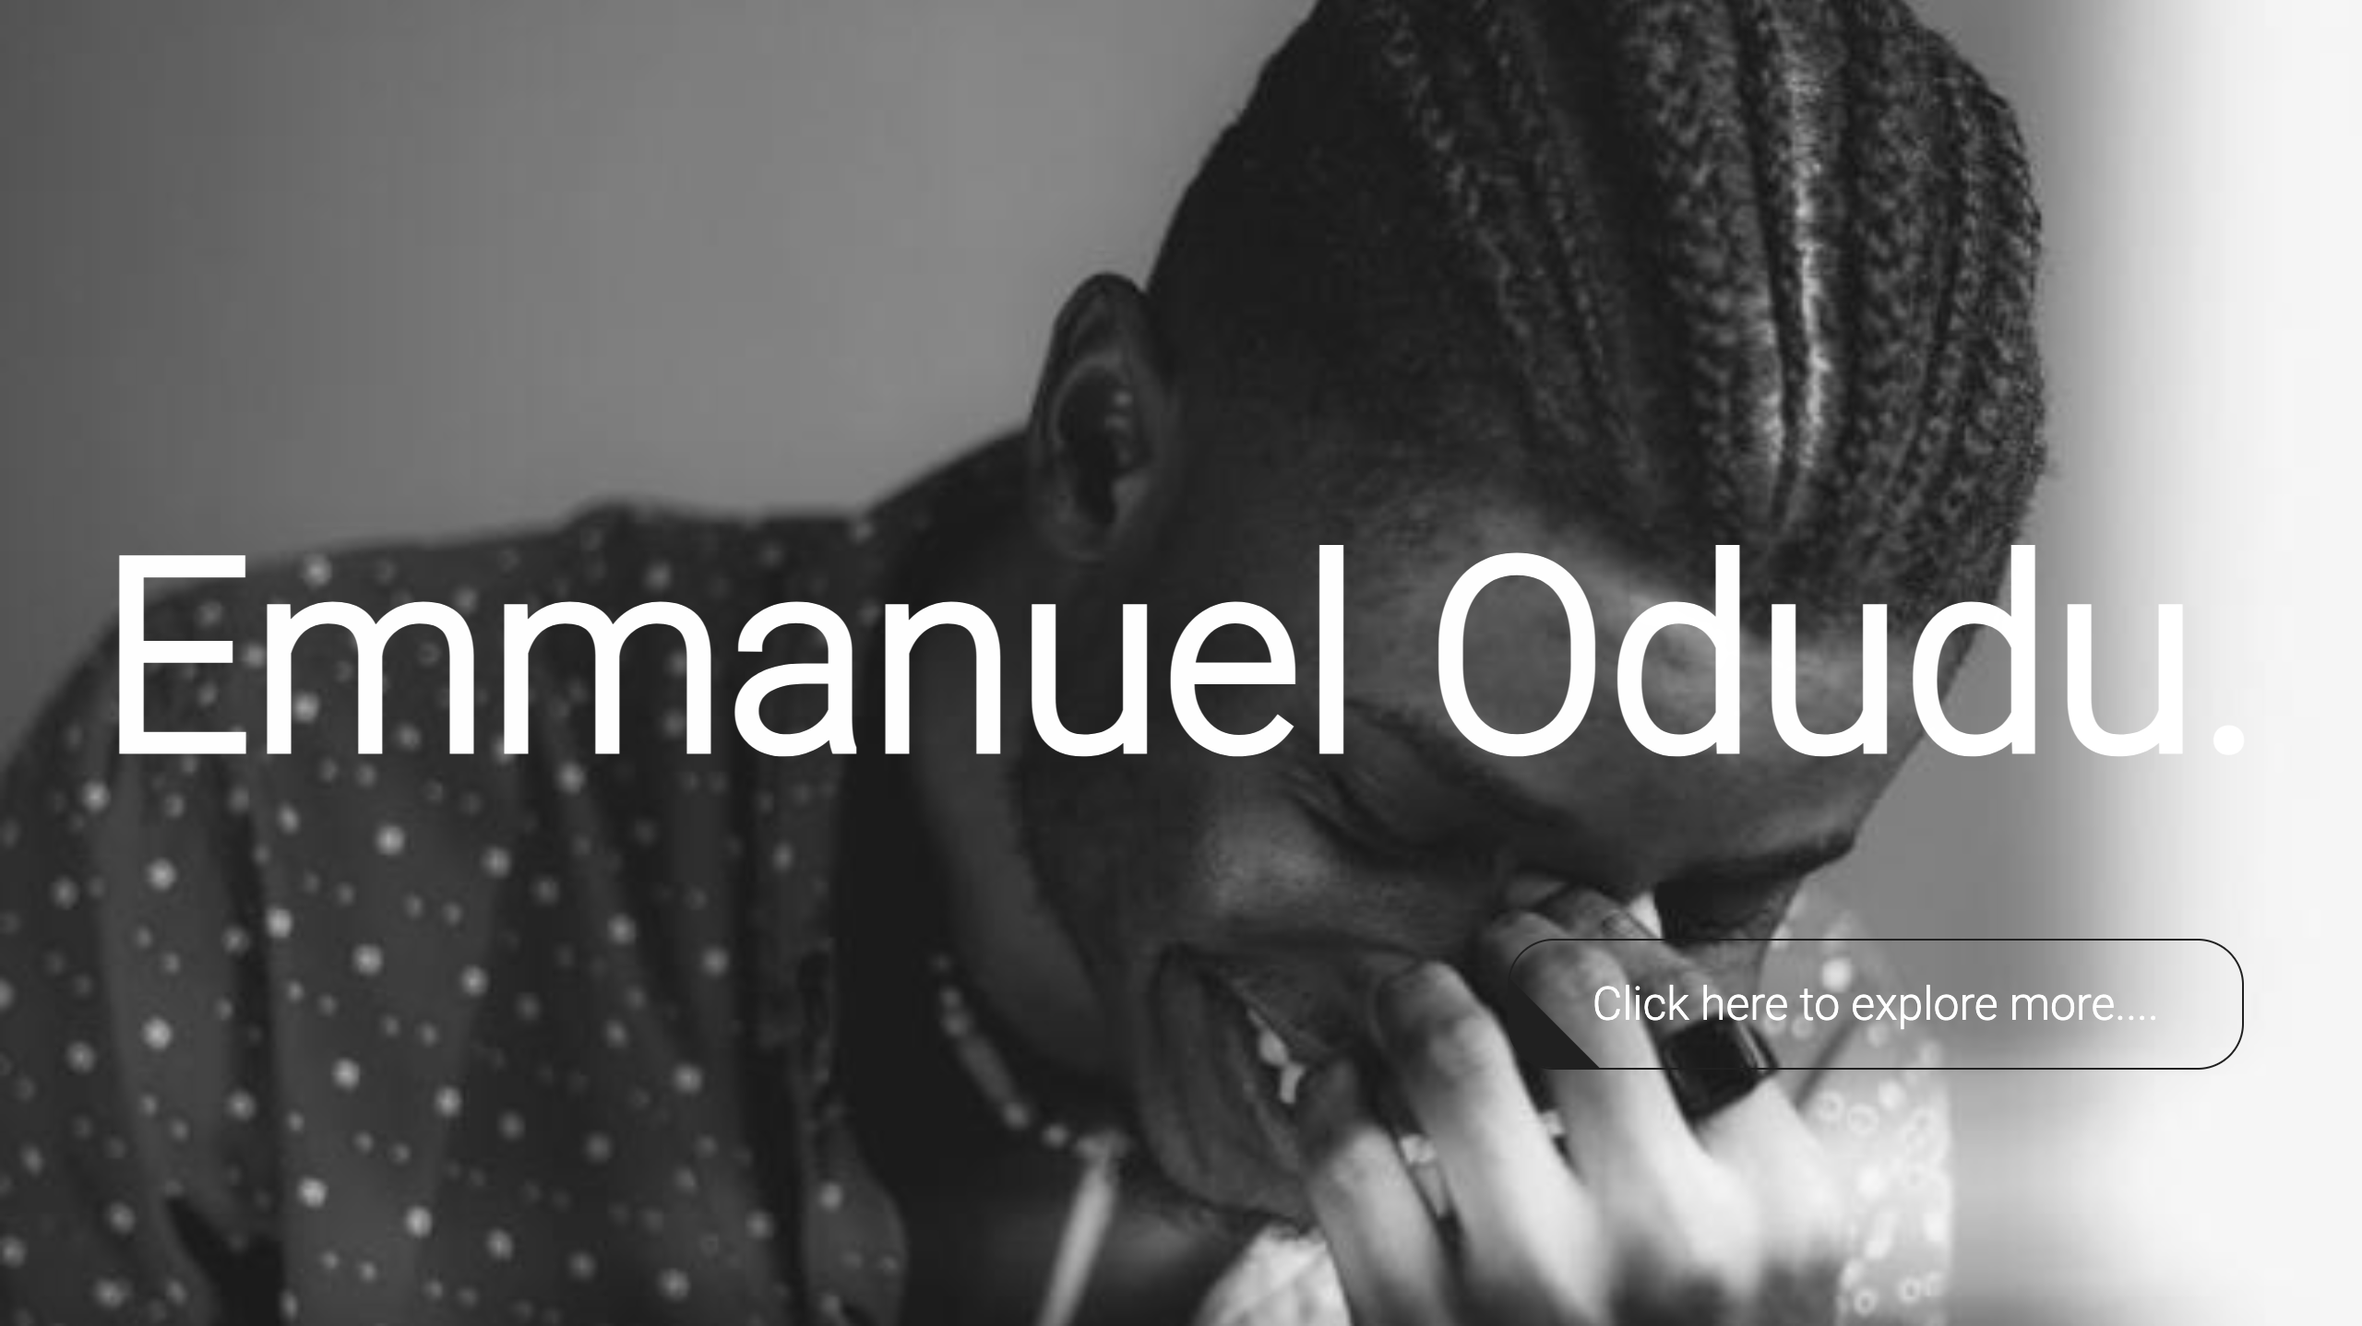
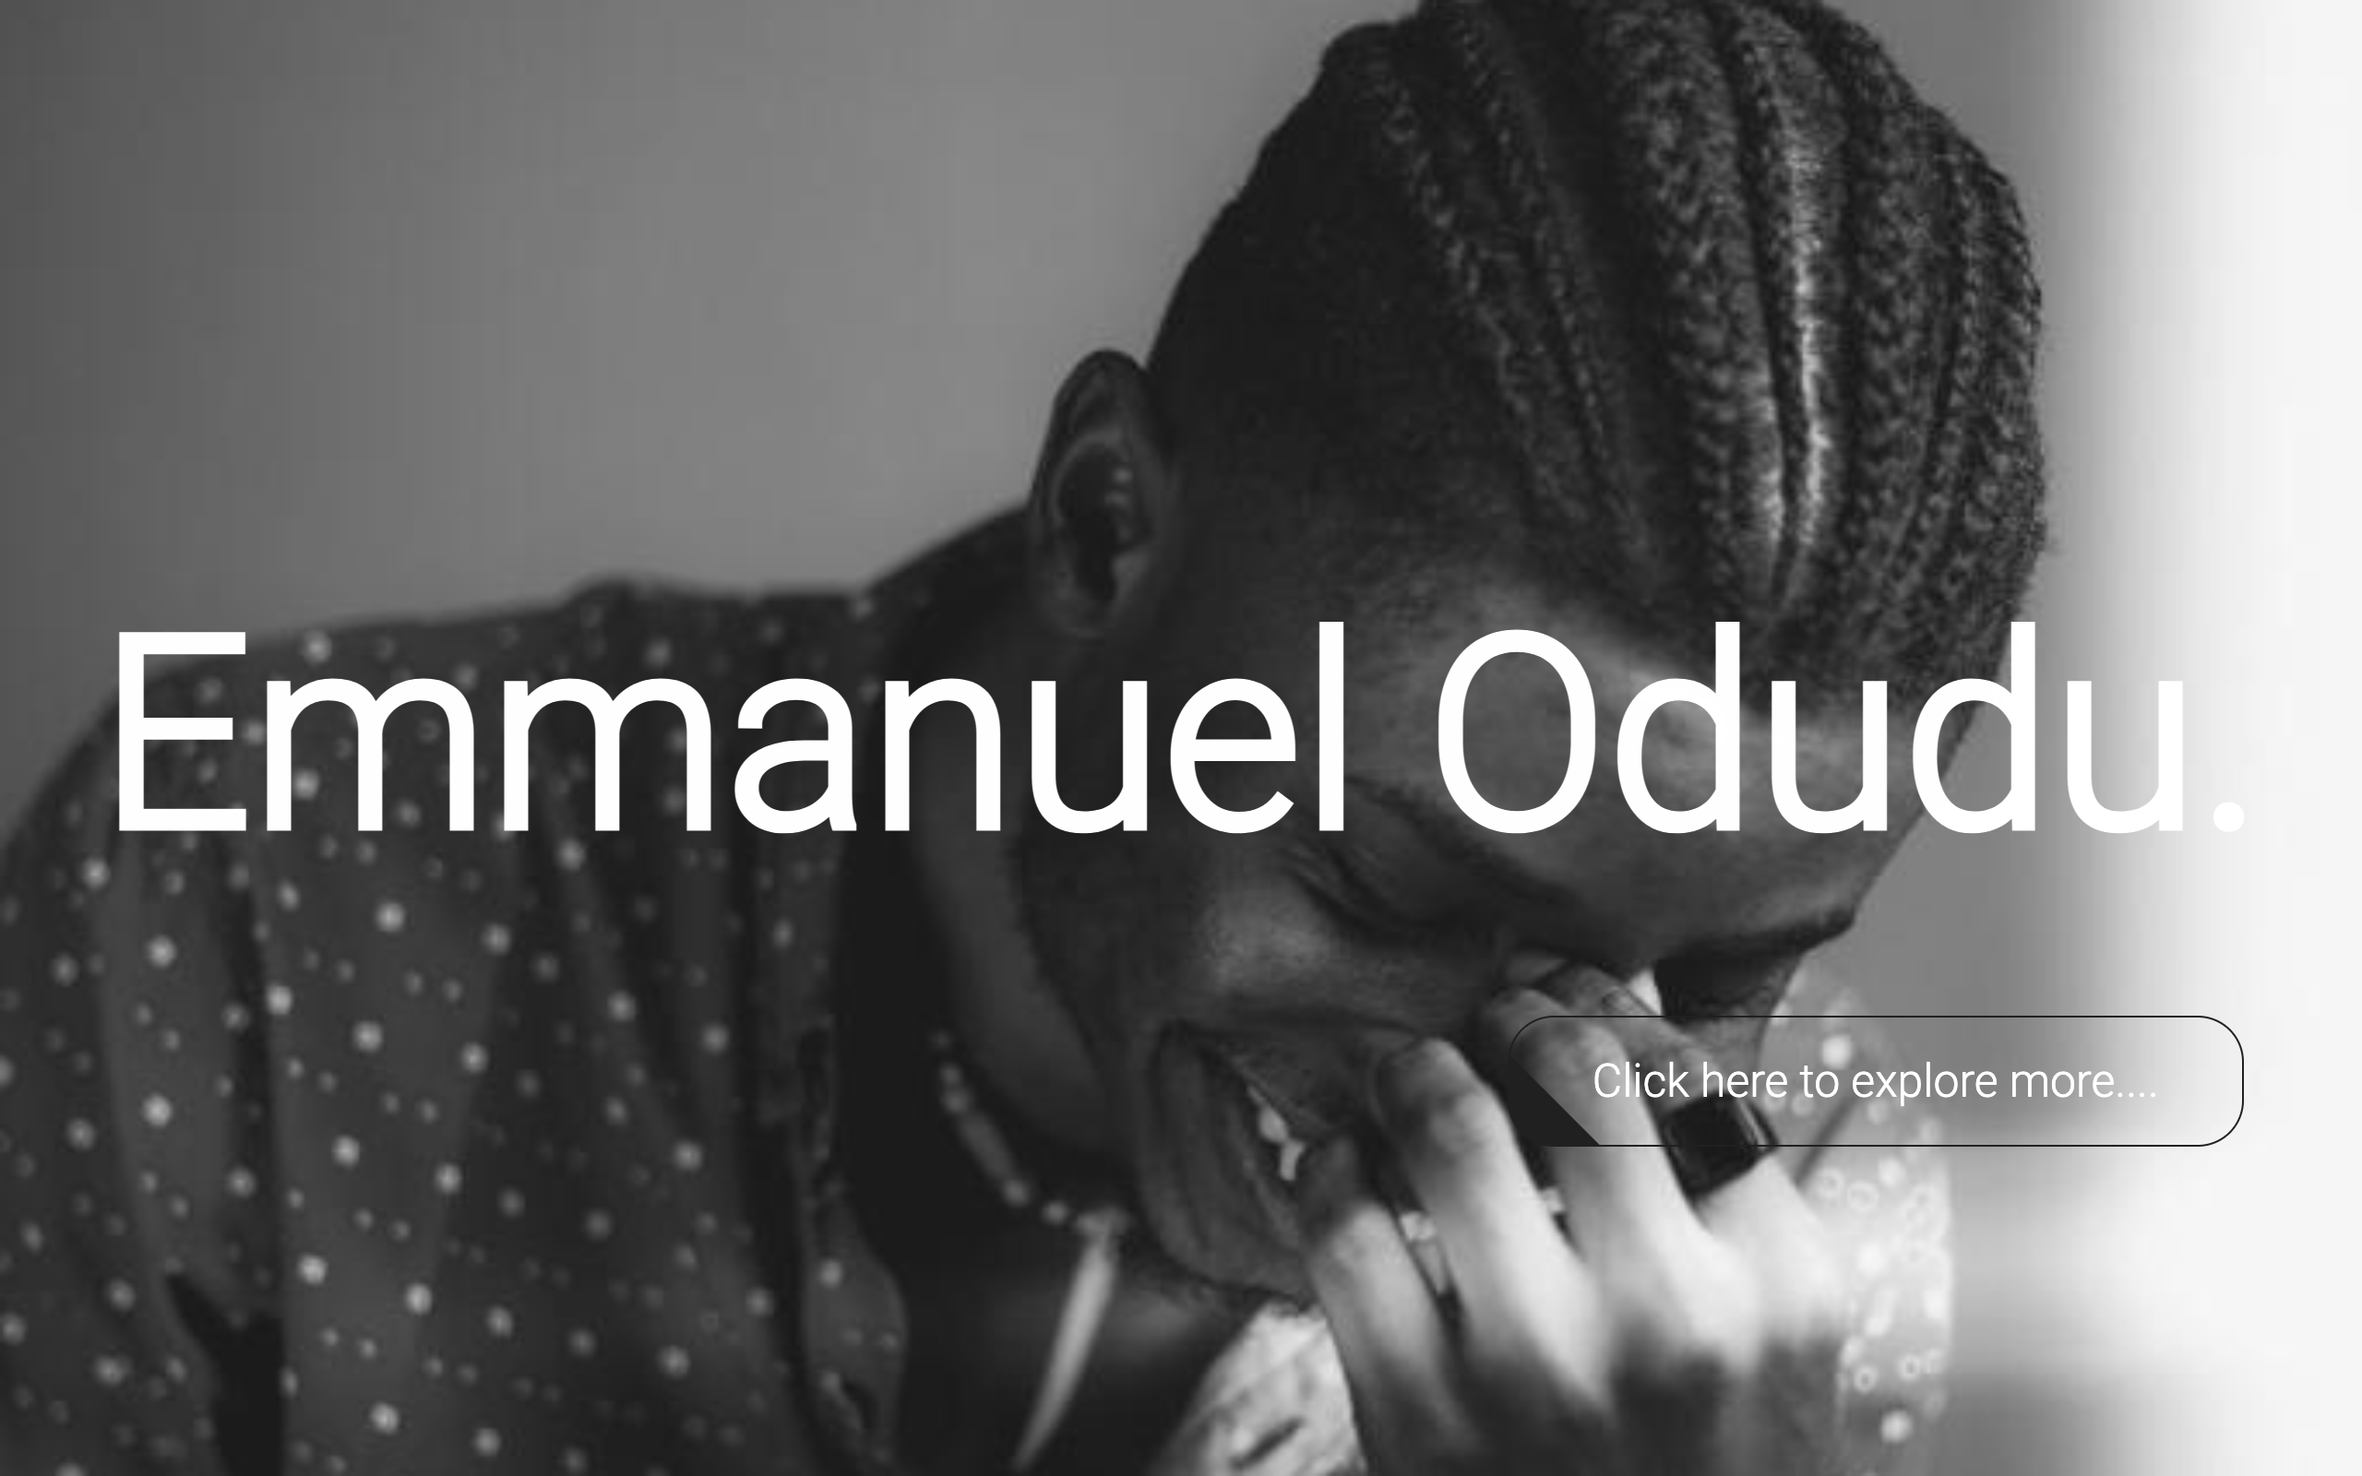
Added projects to portfolio page Also added a projecy info page and responsiveness

diff --git a/src/components/PortfolioList.js b/src/components/PortfolioList.js
@@ -1,18 +1,59 @@
 import jobify from '../Assets/projectImages/jobify.png'
 import news from '../Assets/projectImages/news-update.png'
 import emmanuel from '../Assets/projectImages/Emmanuel.png'
+import food from '../Assets/projectImages/food.png'
+import ticTactToe from '../Assets/projectImages/tictactoe.png'
+import donv2 from '../Assets/projectImages/Donv2.png'
+import ECommerce from '../Assets/projectImages/E-commerce.png'
 const Lists = [
+    {
+        id: 7,
+        title: "E-commerce",
+        description: "An e-commerce store for a clothing brand. Built it with React js and Firebase for the database. Although, currently working on the backend for products management and basic authentications",
+        img: ECommerce,
+        url: 'https://e-testing.netlify.app/'
+    },
+    {
+        id: 3,
+        title: "Emmanuel Odudu",
+        description: "Built a portfolio website for Emmanuel Odudu. A skilled, highly versatile Project Manager focused on functional and effectual project delivery through proactivity, detailed planning, and organized execution using Scrum and Agile methodologies",
+        img: emmanuel,
+        url: 'https://emmanuelodudu.netlify.app/'
+    },
+    {
+        id: 4,
+        title: "Food order app",
+        description: "This is a demo app that is used to order food from a restaurant.I built this using React.js.",
+        img: food,
+        url: 'https://foodify-order.netlify.app/'
+    },
     {
         id: 1,
         title: "Jobify",
         description: "This is a hackathon project which I worked as the sole Frontend developer on my team.We built this application to enhance collaboration between people remotely and also assist freelancers in getting gigs and also giving out gigs.It is a very user friendly application that anybody can use.",
-        img: emmanuel,
+        img: jobify,
+        url: 'https://jobifyelite22.pythonanywhere.com/'
     },
     {
         id: 2,
         title: "News-Update App",
-        description: "This is a hackathon project which I worked as the sole Frontend developer on my team.We built this application to enhance collaboration between people remotely and also assist freelancers in getting gigs and also giving out gigs.It is a very user friendly application that anybody can use.",
-        img: emmanuel,
+        description: "A news blog for checking current happenings around the world at large.It is an update of the news app I built in the recent past.",
+        img: news,
+        url: 'https://newsupdate1.netlify.app'
+    },
+    {
+        id: 5,
+        title: "TicTacToe",
+        description: "A TicTacToe game created using Javascript.Not bad if you try playing this game with someone.",
+        img: ticTactToe,
+        url: 'https://dtictactoe.netlify.app/'
+    },
+    {
+        id: 6,
+        title: "Personal Portfolio (v1)",
+        description: "This is my first personal portfolio that includes most of the projects I have worked on. Built it with just HTML, CSS and Javascript.",
+        img: donv2,
+        url: 'https://onidideoluwa.netlify.app/'
     },
 ];
 

diff --git a/src/components/Home.js b/src/components/Home.js
@@ -2,6 +2,7 @@ import React from 'react'
 import styles from './Home.module.css'
 import Typewriter from "typewriter-effect";
 import NavBar from './NavBar';
+import RubberBand from 'react-reveal/RubberBand';
 // import Footer from './Footer';
 
 function Home() {
@@ -9,28 +10,30 @@ function Home() {
         <div>
             <NavBar />
             <div className={styles.main}>
-                <div className={styles.main_child}>
-                    <h1>Darasimi Oni</h1>
-                    <div className={styles.para}>
-                        <p>
-                            <span style={{ display: "inline-flex" }}>
-                                <Typewriter
-                                    className="color"
-                                    options={{
-                                        strings: [
-                                            "A Frontend Developer.",
-                                            "An Amateur Music Producer.",
-                                            "A Student."],
-                                        autoStart: true,
-                                        loop: true,
-                                        changeDelay: 0.01
-                                    }}
-                                />
-                            </span>
-                        </p>
-                    </div>
+                <RubberBand>
+                    <div className={styles.main_child}>
+                        <h1>Darasimi Oni</h1>
+                        <div className={styles.para}>
+                            <p>
+                                <span style={{ display: "inline-flex" }}>
+                                    <Typewriter
+                                        className="color"
+                                        options={{
+                                            strings: [
+                                                "A Frontend Developer.",
+                                                "An Amateur Music Producer.",
+                                                "A Student."],
+                                            autoStart: true,
+                                            loop: true,
+                                            changeDelay: 0.01
+                                        }}
+                                    />
+                                </span>
+                            </p>
+                        </div>
 
-                </div>
+                    </div>
+                </RubberBand>
             </div>
             {/* <Footer /> */}
         </div>

diff --git a/src/App.js b/src/App.js
@@ -3,7 +3,7 @@ import Loader from './components/Loader';
 import { BrowserRouter, Routes, Route } from "react-router-dom";
 import CustomCursor from 'custom-cursor-react';
 import 'custom-cursor-react/dist/index.css';
-// import NotFound from './NotFound';
+const ProjectsInfo = React.lazy(() => import('./components/ProjectsInfo'));
 const NotFound = React.lazy(() => import('./components/NotFound'));
 const Home = React.lazy(() => import('./components/Home'));
 const About = React.lazy(() => import('./components/About'));
@@ -14,19 +14,19 @@ const Contact = React.lazy(() => import('./components/Contact'));
 function App() {
   return (
     <BrowserRouter>
-     <CustomCursor
-      customClass='none'
-      dimensions={60}
-      fill='transparent'
-      strokeColor='#fff'
-      strokeWidth = {2}
-      smoothness={{
-        movement: 0.08,
-        scale: 0.1,
-        opacity: 0.2,
-      }}
-      targetOpacity={0.5}
-    />
+      <CustomCursor
+        customClass='none'
+        dimensions={60}
+        fill='transparent'
+        strokeColor='#fff'
+        strokeWidth={2}
+        smoothness={{
+          movement: 0.08,
+          scale: 0.1,
+          opacity: 0.2,
+        }}
+        targetOpacity={0.5}
+      />
       <Routes>
         <Route path="/" element={<React.Suspense fallback={
           <Loader />}> <Home /> </React.Suspense>
@@ -40,7 +40,10 @@ function App() {
         <Route path="/contact" element={<React.Suspense fallback={
           <Loader />}> <Contact /> </React.Suspense>
         } />
-          <Route path="*" element={<React.Suspense fallback={
+        <Route path="/project/:projectId" element={<React.Suspense fallback={
+          <Loader />}> <ProjectsInfo /> </React.Suspense>
+        } />
+        <Route path="*" element={<React.Suspense fallback={
           <Loader />}> <NotFound /> </React.Suspense>
         } />
       </Routes>

diff --git a/src/components/ProjectsInfo.module.css b/src/components/ProjectsInfo.module.css
@@ -1,0 +1,99 @@
+.imgWrapper{
+    width: 100%;
+}
+.body{
+    display: flex;
+    flex-direction: column;
+}
+.imgWrapper img{
+    width: 100%;
+    height: 500px;
+    object-fit: cover;
+}
+
+.body button{
+    padding: 10px 30px;
+    font-size: 18px;
+    border: 0.5px solid white;
+    border-radius: 6px;
+    background-color: transparent;
+    color: white;
+    margin-top: 18px;
+    transition: all 0.3s ease-in-out;
+    cursor: pointer;
+}
+.body button:hover{
+    background-color: rgb(209, 209, 209);
+    color: black;
+    transition: all 0.3s ease-in-out;
+    transform: scale(1.1);
+}
+
+.title{
+    margin: auto;
+    margin-top: 30px;
+}
+.title h1{
+    font-size: 40px;
+}
+.description{
+    margin: 10px 30px;
+}
+.description h1{
+    font-size: 20px;
+}
+.buttons{
+    display: flex;
+    margin: auto;
+    margin-bottom: 40px;
+    justify-content: space-between;
+    width: 25%;
+}
+.buttons button a{
+    color: white;
+    text-decoration: none;
+    transition: all 0.3s ease-in-out;
+}
+.buttons button:hover a{
+    color: black;
+    transition: all 0.3s ease-in-out;
+}
+
+@media only screen and (max-width: 912px){
+    .imgWrapper img{
+        height: auto;
+    }
+    .title{
+        margin-top: 10px;
+    }
+    .description{
+        padding: 10px;
+        margin: 5px 0px;
+    }
+    .buttons{
+        margin-bottom: 10px;
+        justify-content: space-around;
+        width: 60%;
+    }
+}
+
+@media only screen and (max-width: 540px) {
+    .title h1{
+        font-size: 30px;
+    }
+    .description{
+        padding: 6px;
+        margin: 5px 0px;
+    }
+    .description h1{
+        font-size: 17px;
+    }
+    .buttons{
+        margin-bottom: 10px;
+        justify-content: space-around;
+        width: 90%;
+    }
+    .body button{
+        font-size: 14px;
+    }
+}

diff --git a/src/components/Portfolio.js b/src/components/Portfolio.js
@@ -4,6 +4,7 @@ import { Link } from 'react-router-dom'
 import NavBar from './NavBar'
 import styles from './Portfolio.module.css'
 import Lists from './PortfolioList'
+import Fade from 'react-reveal/Fade';
 
 function Portfolio() {
     return (
@@ -15,16 +16,18 @@ function Portfolio() {
                 </div>
                 <div className={styles.portfolio_list}>
                     {Lists.map((list) => (
-                        <div className={styles.card}>
-                            <Link to={`/project/${list.title}`}>
-                                <div key={list.id}>
-                                    <div className={styles.img_wrapper}>
-                                        <img src={list.img} alt={list.title} />
+                        <Fade bottom>
+                            <div className={styles.card}>
+                                <Link to={`/project/${list.title}`}>
+                                    <div key={list.id}>
+                                        <div className={styles.img_wrapper}>
+                                            <img src={list.img} alt={list.title} />
+                                        </div>
+                                        <h2>{list.title}</h2>
                                     </div>
-                                    <h2>{list.title}</h2>
-                                </div>
-                            </Link>
-                        </div>
+                                </Link>
+                            </div>
+                        </Fade>
                     ))}
                 </div>
             </div>

diff --git a/src/components/About.js b/src/components/About.js
@@ -45,7 +45,7 @@ function About() {
                             only thing i've always had a thing for, I picked interest in music production which I practice during my leisure. I am also a big fan of good music. Can't
                             lie, Listening to good music helps relieve me of stress at times 🧘🏾♂. My favorite genres are the
                             <span className={styles.span}><a href='https://open.spotify.com/playlist/37i9dQZF1DWZCOSaet9tpB?si=CCqYdEECRUSK9vBdDqkPLw' target='_blank' rel="noreferrer"> Afrobeats</a></span>,
-                            <span className={styles.span}><a href='https://open.spotify.com/playlist/37i9dQZF1DX6PKX5dyBKeq?si=rpV5O1dKRMW__x-yGrIAxQ' target='_blank' rel="noreferrer"> UK Drill </a></span>
+                            <span className={styles.span}><a href='https://open.spotify.com/playlist/48bTxPU1uCH6AKCODg1rPv?si=MjaNZgGbT2-s1-9KZG73ig' target='_blank' rel="noreferrer"> UK Drill </a></span>
                             and <span className={styles.span}><a href='https://open.spotify.com/user/spotify/playlist/37i9dQZF1DX5mILnBJLA26?si=tfL8-88fS6y5w-i_I3OXNA' target='_blank' rel="noreferrer"> Amapiano</a></span>.
                             I love the <span className={styles.w3}>log drums</span><span className={styles.emoji3}>🪘</span>.
                         </p>

diff --git a/src/components/ProjectsInfo.js b/src/components/ProjectsInfo.js
@@ -1,0 +1,37 @@
+import React from 'react'
+import { useParams } from 'react-router'
+import { Link } from 'react-router-dom'
+import NavBar from './NavBar'
+import Lists from './PortfolioList'
+import styles from './ProjectsInfo.module.css'
+
+function ProjectsInfo() {
+    const { projectId } = useParams()
+    const project = Lists.find((list) => String(list.title) === projectId)
+    return (
+        <div key={project.id} className={styles.body}>
+            <NavBar />
+            <div className={styles.imgWrapper}>
+                <img src={project.img} alt={project.title} />
+            </div>
+            <div className={styles.title}>
+                <h1>{project.title}</h1>
+            </div>
+            <div className={styles.description}>
+                <h1>{project.description}</h1>
+            </div>
+            <div className={styles.buttons}>
+                <div>
+                    <button><a href={project.url} target='_blank' rel="noreferrer">Live site</a></button>
+                </div>
+                <div>
+                    <Link to='/portfolio'>
+                        <button>Go back</button>
+                    </Link>
+                </div>
+            </div>
+        </div>
+    )
+}
+
+export default ProjectsInfo

diff --git a/src/components/NotFound.module.css b/src/components/NotFound.module.css
@@ -53,6 +53,7 @@
     background-color: rgb(209, 209, 209);
     color: black;
     transition: all 0.3s ease-in-out;
+    transform: scale(1.1);
 }
 
 @media only screen and (max-width: 912px) {

diff --git a/src/components/NavBar.module.css b/src/components/NavBar.module.css
@@ -45,6 +45,6 @@
         margin: 0px 14px;
     }
     .logo svg{
-        width: 65px;
+        width: 60px;
     }
 }
